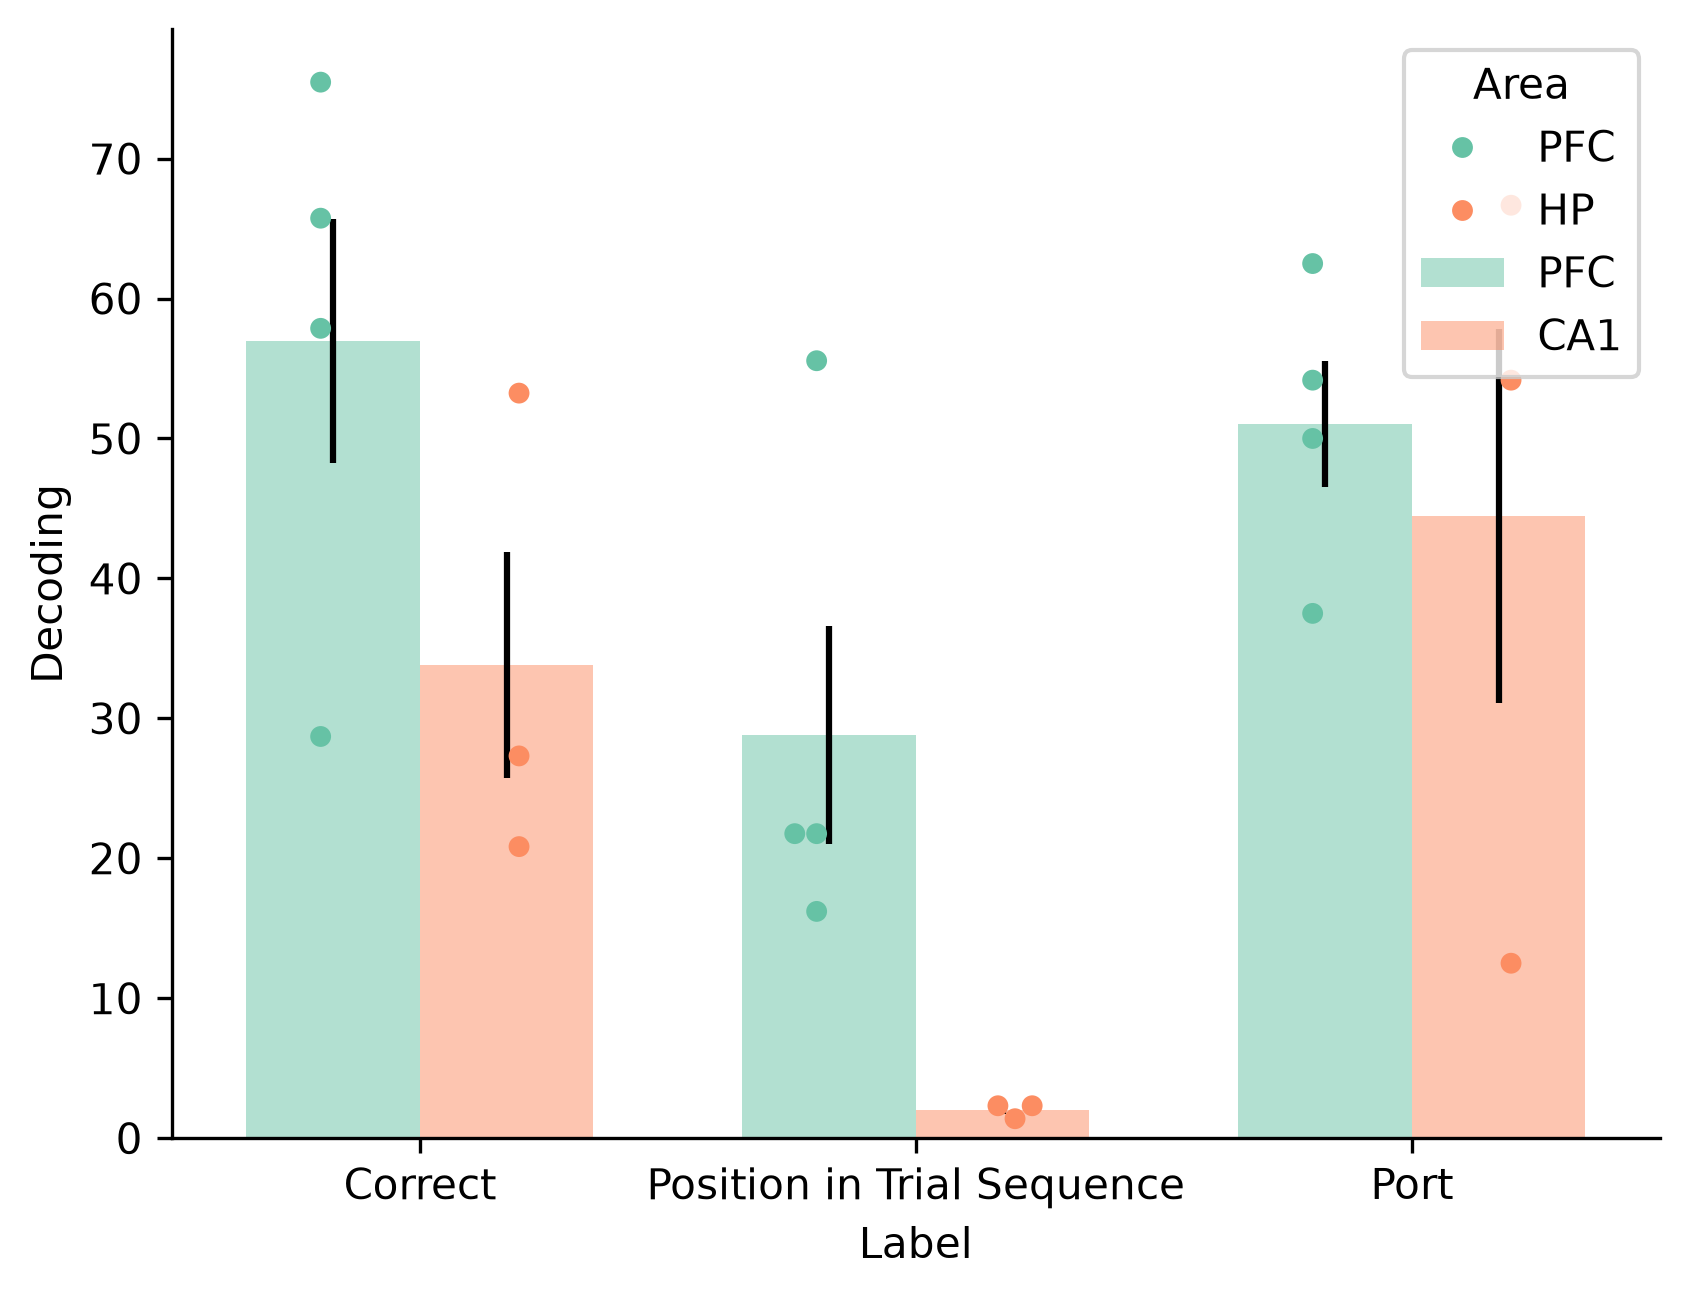
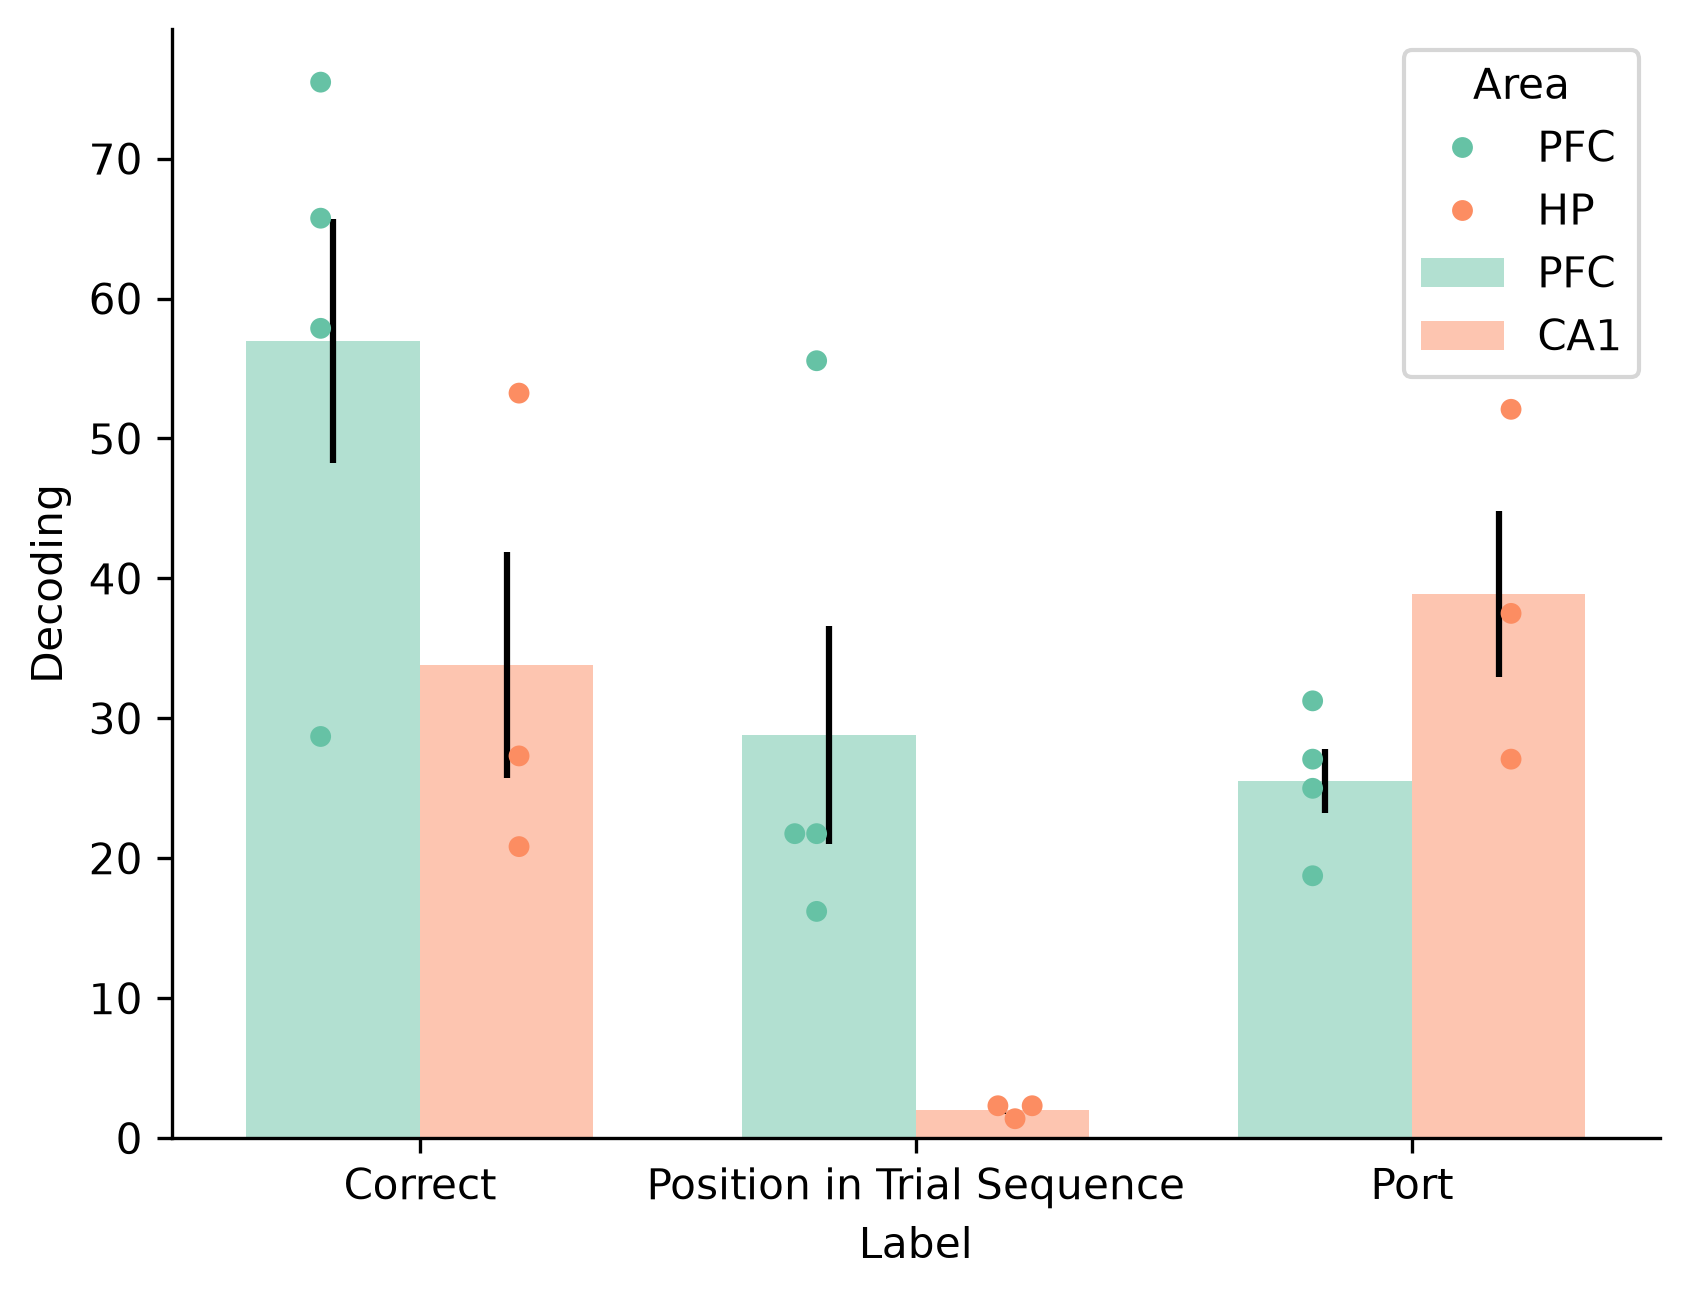
Fig 4g: Port averages B choice and B reward at the shared port, regenerate the panel

Changed region(s): [[0.7081, 0.2773, 0.9544, 0.6163], [0.7697, 0.6471, 0.8005, 0.678], [0.7697, 0.1849, 0.8005, 0.2157]]

diff --git a/functions/functions_cells_decode.py b/functions/functions_cells_decode.py
@@ -43,11 +43,12 @@ TASK_PAIRS = {1: (1, 2), 2: (1, 3), 3: (2, 3)}   # task_test -> (task x, task y)
 # task 2 / testing on task 3 and for training on task 3 / testing on task 2.
 # In all 81 recorded sessions the initiation port of task 2 (DM column 8) is the B port of task 3,
 # and the initiation port of task 3 is never the B port of task 2. The cells in which the true and
-# the predicted state share a physical port are therefore B choice -> Initiation when trained on
-# task 2 and tested on task 3, and Initiation -> B choice for the reverse.
-PORT_CELLS_SAME_PORT = ((4, 0), (0, 4))
+# the predicted state share a physical port are therefore B choice or B reward -> Initiation when
+# trained on task 2 and tested on task 3, and Initiation -> B choice or B reward for the reverse.
+# B no-reward is left out because the animal has already left the port.
+PORT_CELLS_SAME_PORT = (((4, 0), (5, 0)), ((0, 4), (0, 5)))
 # Cells used for the printed figure: they compare two different physical ports.
-PORT_CELLS_PUBLISHED = ((0, 4), (4, 0))
+PORT_CELLS_PUBLISHED = (((0, 4),), ((4, 0),))
 
 MIN_TRIALS = 10         # a session is used if every choice x outcome x task has more trials than this
 BIN_INIT, BIN_CHOICE, BIN_REWARD = 24, 35, 42
@@ -148,10 +149,11 @@ def decoding_scores(m1, m2, same_port=True):
     """Per-animal Correct, Position and Port scores. m1, m2: (pair, animal, 7, 7)."""
     m1 = np.asarray(m1); m2 = np.asarray(m2)
     av = np.mean([m1, m2], 0).mean(0)
-    (r1, c1), (r2, c2) = PORT_CELLS_SAME_PORT if same_port else PORT_CELLS_PUBLISHED
+    cells_1, cells_2 = PORT_CELLS_SAME_PORT if same_port else PORT_CELLS_PUBLISHED
+    port = [m1[2][:, r, c] for r, c in cells_1] + [m2[2][:, r, c] for r, c in cells_2]
     return {'Correct': np.mean([av[:, i, i] for i in (4, 5, 6)], 0),
             'Position in Trial Sequence': np.mean([av[:, 4, 1], av[:, 5, 2], av[:, 6, 3]], 0),
-            'Port': np.mean([m1[2][:, r1, c1], m2[2][:, r2, c2]], 0)}
+            'Port': np.mean(port, 0)}
 
 
 def animal_permutation_null(hp, pfc, direction):

diff --git a/tests/test_decode.py b/tests/test_decode.py
@@ -67,6 +67,7 @@ def test_port_null_uses_same_cells_as_real():
 
 def test_port_cells_orientation_and_default():
     hp1, hp2 = np.zeros((2, 3, 3, 7, 7))
-    hp1[2, :, 4, 0] = 80; hp2[2, :, 0, 4] = 60           # same-port cells only
-    assert np.allclose(dec.decoding_scores(hp1, hp2)['Port'], 70)
+    hp1[2, :, 4, 0] = 80; hp1[2, :, 5, 0] = 40; hp2[2, :, 0, 4] = 60; hp2[2, :, 0, 5] = 20   # same-port cells only
+    hp1[2, :, 6, 0] = 100; hp2[2, :, 0, 6] = 100          # B no-reward must not count
+    assert np.allclose(dec.decoding_scores(hp1, hp2)['Port'], 50)
     assert np.allclose(dec.decoding_scores(hp1, hp2, same_port=False)['Port'], 0)

diff --git a/CORRECTIONS.md b/CORRECTIONS.md
@@ -36,8 +36,11 @@ were regenerated on the full data set (5,000 session permutations; all 35 animal
 
 ## Results that change
 
-- Fig 4g, Port: with the cells that share a physical port, CA1 44.4% and PFC 51.0%
-  (P = 23/35 = 0.657). `dec.plot(HP, PFC, same_port=False)` uses the printed cells (with bug 5 fixed: PFC 13.5%; the original code gave PFC 27.1%, CA1 68.1%).
+- Fig 4g, Port: with the cells that share a physical port (Initiation of layout 2 and B choice or B reward
+  of layout 3, averaged; no-reward excluded because the animal has left the port), CA1 38.9% and PFC 25.5%
+  (P = 3/35 = 0.086, not significant). With B choice only: CA1 44.4%, PFC 51.0%, P = 23/35. The same average on the
+  two states at different ports also gives CA1 > PFC (38.2% and 7.8%, P = 1/35), so it is not specific to the port.
+  B reward was added after the first result was seen. `dec.plot(HP, PFC, same_port=False)` uses the printed cells (with bug 5 fixed: PFC 13.5%; the original code gave PFC 27.1%, CA1 68.1%).
 - Fig 6e: PFC > CA1 holds for B choices at choice and outcome time. For A choices only a few
   bins remain, and the A versus B difference is a single bin.
 - Extended Data Fig 5 (animals as the unit): outcome (5a), outcome and problem-specific A
